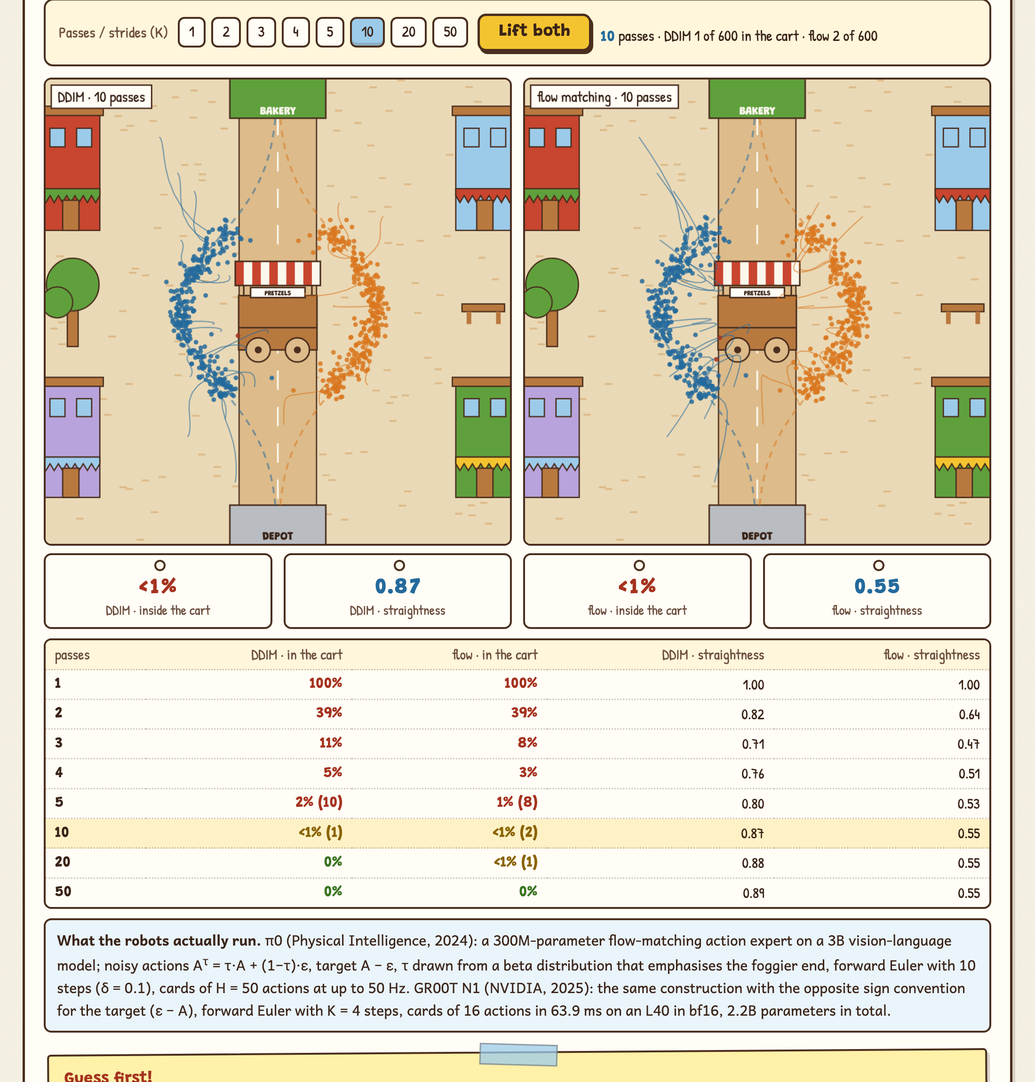
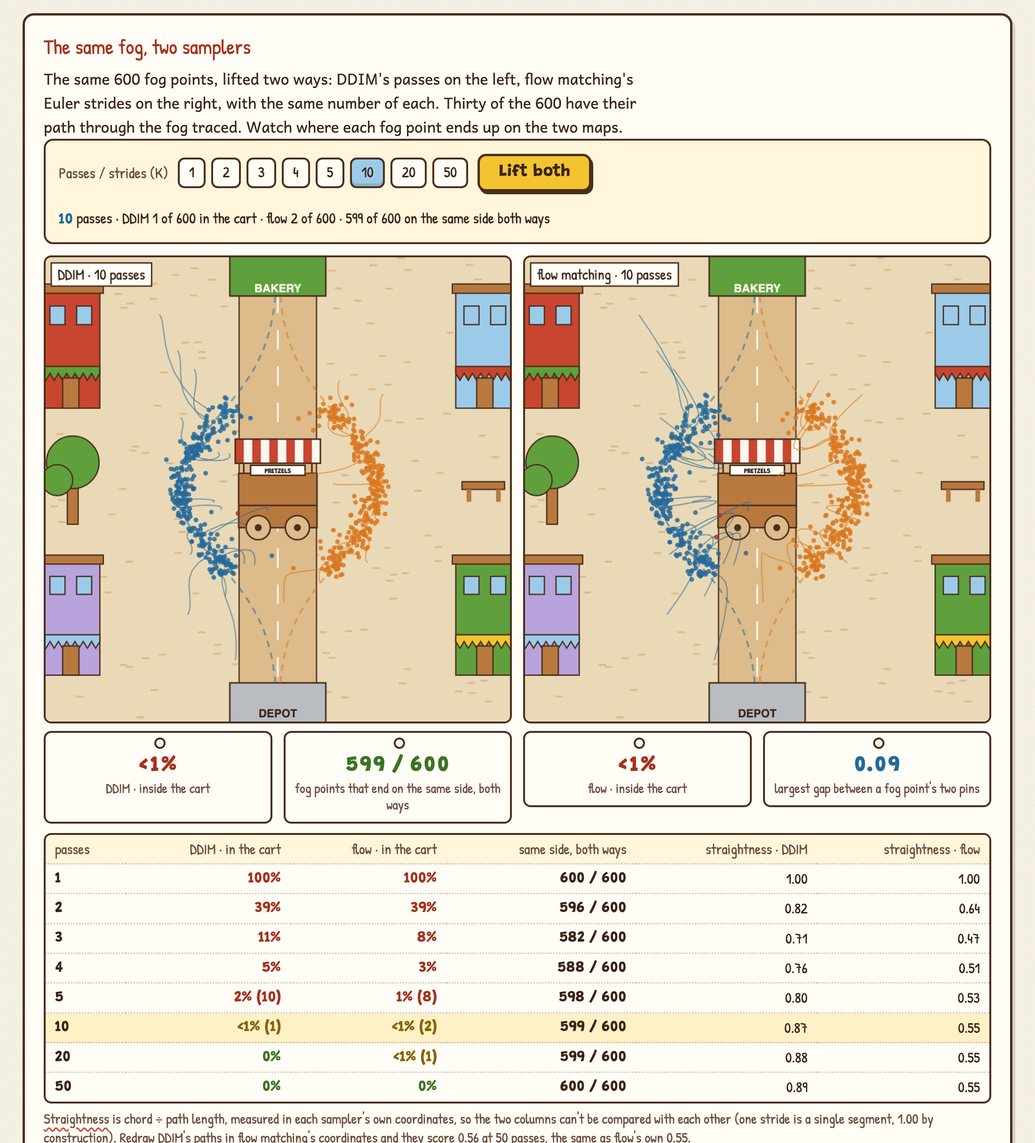
Step 7 review pass: the same path drawn two ways, not "DDIM is straighter"
The second adversarial review showed the step's headline was a coordinate
artifact: with the exact field, DDIM at η = 0 and flow matching's Euler
integrate the same path in different coordinates, so the same fog reaches
the same pin (599/600 at 10 strides, 600/600 at 50, gap 0.02) and DDIM's
trails redrawn in flow's coordinates score 0.56, not 0.87. The s7c answer
key, the say-it line, the README and ACCEPTANCE now say so, with a
same-side column and tiles in place of the comparative straightness claim.
GR00T N1's target is A − ε like π0's (its paper prints ε − A; its update
rule and released code don't). Also: the step 6 lede no longer promises
"fewer passes", "within a few pins" is now 15 vs 2 of 600, the courier
no longer "follows" the sampler's arrows, GR00T §2.1, a #s7 legacy hash
rewrites, DDIM's fog thins with its actual √(1−ᾱ), arrows drawn in ink,
and the README images are captured at exact sizes.

diff --git a/index.html b/index.html
@@ -13,7 +13,7 @@
 <link rel="preconnect" href="https://fonts.gstatic.com" crossorigin>
 <link href="https://fonts.googleapis.com/css2?family=Andika:wght@400;700&family=Grandstander:wght@700;800&family=Patrick+Hand&display=swap" rel="stylesheet">
 <link rel="stylesheet" href="css/styles.css">
-<script>/* Step links use "#/s3" so the hash never matches an element id and the browser never fragment-jumps. Rewrite the legacy form before the body parses. */(function(){var h=location.hash;if(/^#(s[0-6]|cap|ft)$/.test(h))history.replaceState(null,"","#/"+h.slice(1));})();</script>
+<script>/* Step links use "#/s3" so the hash never matches an element id and the browser never fragment-jumps. Rewrite the legacy form before the body parses. */(function(){var h=location.hash;if(/^#(s[0-7]|cap|ft)$/.test(h))history.replaceState(null,"","#/"+h.slice(1));})();</script>
 </head>
 <body>
 <!--
@@ -353,7 +353,7 @@ HONESTY: the schedules, the forward process, the denoiser (the exact Bayes poste
   <div class="card">
     <div class="scene" data-art="s6"></div>
     <h2>6 · Pin 16, drive 8, look again: the robot drives</h2>
-    <p class="lede">Everything so far, put on the road. The cartographer no longer draws one dot: she draws a <span class="g" data-g="chunk">card of 16 pins</span> (the paper's T<sub>p</sub> = 16), the courier drives the first 8 (<span class="g" data-g="horizon">T<sub>a</sub> = 8</span>), then the lookout sends a fresh report and she draws a new card. Predict a short horizon, execute the first part, re-plan: <span class="g" data-g="receding">receding-horizon control</span>, the model-predictive-control idea running on a diffusion sampler. Every card here is denoised from fresh fog with the passes you pick (DDIM, η = 0). Benchmarked across 15 tasks from 4 suites, the paper's policy beat the prior state of the art by 46.9% on average. The newer action heads in π0 and GR00T N1 swap diffusion for <span class="g" data-g="flow">flow matching</span>, a relative that needs fewer passes; the picture is the same.</p>
+    <p class="lede">Everything so far, put on the road. The cartographer no longer draws one dot: she draws a <span class="g" data-g="chunk">card of 16 pins</span> (the paper's T<sub>p</sub> = 16), the courier drives the first 8 (<span class="g" data-g="horizon">T<sub>a</sub> = 8</span>), then the lookout sends a fresh report and she draws a new card. Predict a short horizon, execute the first part, re-plan: <span class="g" data-g="receding">receding-horizon control</span>, the model-predictive-control idea running on a diffusion sampler. Every card here is denoised from fresh fog with the passes you pick: DDIM at η = 0, or Euler strides if you choose arrows, which step 7 explains. Benchmarked across 15 tasks from 4 suites, the paper's policy beat the prior state of the art by 46.9% on average. The newer action heads in π0 and GR00T N1 swap diffusion for <span class="g" data-g="flow">flow matching</span>, a relative with a straight-line target and a few Euler strides; step 7 shows it's the same picture.</p>
     <p class="covers">Covers <b>Diffusion Policy §3</b>: T<sub>o</sub> = 2, T<sub>p</sub> = 16, T<sub>a</sub> = 8, DDIM at 10 steps · <b>§4.3</b>: the trade-off in T<sub>a</sub> · model-predictive control's receding horizon</p>
   </div>
   <div class="card" data-shot>
@@ -419,12 +419,12 @@ HONESTY: the schedules, the forward process, the denoiser (the exact Bayes poste
   <div class="card">
     <div class="scene" data-art="s7"></div>
     <h2>7 · Arrows, not guesses: flow matching</h2>
-    <p class="lede">Diffusion asks the cartographer for a guess: what does the clean sheet look like? <span class="g" data-g="flow">Flow matching</span> asks her for an arrow: which way, and how fast, should this pin move to get there? The path is <em>defined</em> as a straight line from a fog point ε to a pin x₁, x<sub>t</sub> = (1 − t)·ε + t·x₁ for t from 0 to 1, and the network is trained to output that line's <span class="g" data-g="velocity">velocity</span>, x₁ − ε. Sampling is following the arrows: start in fog, take one <span class="g" data-g="euler">Euler</span> stride along the current arrow, ask again. The action experts of π0 and GR00T N1 work this way, so this is the version of the fork you'll meet in a 2025 robot. It isn't in the course, which is why it comes last.</p>
-    <p class="covers">Not in the course (notebook 02 mentions a different "velocity" objective in passing) · <b>Lipman et al., Flow Matching for Generative Modeling (2023)</b> · <b>π0 §IV</b> and <b>GR00T N1 §2.2</b>: the action experts</p>
+    <p class="lede">Diffusion asks the cartographer for a guess: what does the clean sheet look like? <span class="g" data-g="flow">Flow matching</span> asks her for an arrow: which way, and how fast, should this pin move to get there? The path is <em>defined</em> as a straight line from a fog point ε to a pin x₁, x<sub>t</sub> = (1 − t)·ε + t·x₁ for t from 0 to 1, and the network is trained to output that line's <span class="g" data-g="velocity">velocity</span>, x₁ − ε. Sampling is following the arrows: start in fog, take one <span class="g" data-g="euler">Euler</span> stride along the current arrow, ask again. The action experts of π0 and GR00T N1 work this way, so this is the version of the fork you'll meet in a 2025 robot. It isn't in the course, which is why it comes last. One honesty note up front: with a perfectly trained network the arrow is computed from the same guess step 2 taught, v = (x̂₁ − x) ÷ (1 − t), so it isn't a different kind of knowledge. It's a different target to train on and a different path to follow, which changes the recipe (no noise schedule to pick, uniform strides) more than it changes the answer.</p>
+    <p class="covers">Not in the course (notebook 02 mentions a different "velocity" objective in passing) · <b>Lipman et al., Flow Matching for Generative Modeling (2023)</b> · <b>π0 §IV</b> and <b>GR00T N1 §2.1</b>: the action experts</p>
   </div>
   <div class="card">
     <h3>The arrow field</h3>
-    <p class="lede">Every point on the map gets an arrow: the exact best straight-line velocity, averaged over every pin the point could still become. Slide t from pure fog toward the clean map and watch where the arrows point.</p>
+    <p class="lede">Every point on the map gets an arrow: the exact best straight-line velocity, averaged over every pin the point could still become. Slide t from pure fog toward the clean map and watch where the arrows point. Arrow length shows speed, capped for legibility; the chalk box has one dot's exact numbers.</p>
     <div class="pg">
       <div class="panel">
         <div class="sl"><div class="sl-h"><span>t: 0 is pure fog, 1 is the clean map</span><b id="s7tv">0.00</b></div><input type="range" id="s7t" min="0" max="0.95" step="0.01" value="0" aria-label="Flow time t"></div>
@@ -432,7 +432,7 @@ HONESTY: the schedules, the forward process, the denoiser (the exact Bayes poste
         <div class="callout co-r"><b>At t = 0 every arrow points at the same spot:</b> the average of every route, the cart. That's the smudge again, in arrow form. One Euler stride of length 1 lands exactly on it: the clerk, once more. The arrows only start to disagree, some left and some right, once the pins have moved and t has grown.</div>
       </div>
       <div><canvas id="s7f" class="sq" aria-label="The flow-matching velocity field over the square, with the 600 pins at time t"></canvas>
-      <div class="legend"><span><span class="dot" style="background:var(--left)"></span>arrow: the field</span><span><span class="dot" style="background:var(--right)"></span>a pin from a right drive, at x_t</span></div></div>
+      <div class="legend"><span><span class="dot" style="background:var(--line)"></span>arrow: the field</span><span><span class="dot" style="background:var(--left)"></span>a pin from a left drive, at x_t</span><span><span class="dot" style="background:var(--right)"></span>a pin from a right drive, at x_t</span></div></div>
     </div>
     <div class="predict" data-p="s7a">
       <div class="tag">Guess first!</div>
@@ -443,33 +443,35 @@ HONESTY: the schedules, the forward process, the denoiser (the exact Bayes poste
   </div>
   <div class="card" data-shot>
     <h3>The same fog, two samplers</h3>
-    <p class="lede">The same 600 fog points, lifted two ways: DDIM's passes on the left, flow matching's Euler strides on the right, with the same number of each. Thirty of the 600 have their path through the fog traced. <span class="g" data-g="straight">Straightness</span> is chord ÷ path length: 1 would be a straight line.</p>
+    <p class="lede">The same 600 fog points, lifted two ways: DDIM's passes on the left, flow matching's Euler strides on the right, with the same number of each. Thirty of the 600 have their path through the fog traced. Watch where each fog point ends up on the two maps.</p>
     <div class="panel">
       <div class="row"><span class="lbl" style="margin:0">Passes / strides (K)</span><div class="seg" id="s7k" style="margin:0"></div><button class="act" id="s7go">Lift both</button><span class="status" id="s7st"></span></div>
     </div>
     <div class="grid g2">
       <div><canvas id="s7d" class="sq" aria-label="DDIM: 600 pins lifted from fog, thirty traced"></canvas>
-        <div class="grid g2" style="margin-top:8px"><div class="stat"><div class="v bad" id="s7dc">–</div><div class="l">DDIM · inside the cart</div></div><div class="stat"><div class="v acc" id="s7ds">–</div><div class="l">DDIM · straightness</div></div></div></div>
+        <div class="grid g2" style="margin-top:8px"><div class="stat"><div class="v bad" id="s7dc">–</div><div class="l">DDIM · inside the cart</div></div><div class="stat"><div class="v good" id="s7same">–</div><div class="l">fog points that end on the same side, both ways</div></div></div></div>
       <div><canvas id="s7w" class="sq" aria-label="Flow matching: the same 600 pins, thirty traced"></canvas>
-        <div class="grid g2" style="margin-top:8px"><div class="stat"><div class="v bad" id="s7wc">–</div><div class="l">flow · inside the cart</div></div><div class="stat"><div class="v acc" id="s7ws">–</div><div class="l">flow · straightness</div></div></div></div>
+        <div class="grid g2" style="margin-top:8px"><div class="stat"><div class="v bad" id="s7wc">–</div><div class="l">flow · inside the cart</div></div><div class="stat"><div class="v acc" id="s7gap">–</div><div class="l">largest gap between a fog point's two pins</div></div></div></div>
     </div>
     <div class="tablewrap"><table class="ladder" id="s7lad"></table></div>
-    <div class="callout co-i"><b>What the robots actually run.</b> π0 (Physical Intelligence, 2024): a 300M-parameter flow-matching action expert on a 3B vision-language model; noisy actions A<sup>τ</sup> = τ·A + (1−τ)·ε, target A − ε, τ drawn from a beta distribution that emphasises the foggier end, forward Euler with 10 steps (δ = 0.1), cards of H = 50 actions at up to 50 Hz. GR00T N1 (NVIDIA, 2025): the same construction with the opposite sign convention for the target (ε − A), forward Euler with K = 4 steps, cards of 16 actions in 63.9 ms on an L40 in bf16, 2.2B parameters in total.</div>
+    <div class="chartcap"><span class="g" data-g="straight">Straightness</span> is chord ÷ path length, measured in each sampler's own coordinates, so the two columns can't be compared with each other (one stride is a single segment, 1.00 by construction). Redraw DDIM's paths in flow matching's coordinates and they score 0.56 at 50 passes, the same as flow's own 0.55.</div>
+    <div class="callout co-g"><b>The same path, drawn two ways.</b> With the exact field, DDIM at η = 0 and flow matching's Euler strides integrate the same continuous path in different coordinates (x<sub>flow</sub> = x<sub>DDIM</sub> ÷ (√ᾱ + √(1−ᾱ))), so the same fog point reaches the same pin: 599 of 600 on the same side at 10 strides, 600 of 600 at 50, with the two pins within 0.02 of each other. What differs is where each sampler places its strides, which is why the few-stride rungs of the ladder differ by a few pins. The straight line is a promise about each training pair, one fog point to one pin; the learned field, for either sampler, is the average of those lines, and at a fork the average bends. Rectified flow's "reflow" (re-pair fog points with the pins they actually reach and train again) is what straightens it; this lab draws the first pass only.</div>
+    <div class="callout co-i"><b>What the robots actually run.</b> π0 (Physical Intelligence, 2024): a 300M-parameter flow-matching action expert on a 3B vision-language model; noisy actions A<sup>τ</sup> = τ·A + (1−τ)·ε, target A − ε, τ drawn from a beta distribution that emphasises the foggier end, forward Euler with 10 steps (δ = 0.1), cards of H = 50 actions at up to 50 Hz. GR00T N1 (NVIDIA, 2025): the same construction and the same target (its paper prints ε − A, but its update rule and its released code use A − ε), forward Euler with K = 4 steps, cards of 16 actions in 63.9 ms on an L40 in bf16, 2.2B parameters in total.</div>
     <div class="predict" data-p="s7b">
       <div class="tag">Guess first!</div>
       <div class="q">Three passes from the same fog. Which sampler leaves fewer pins in the cart?</div>
       <div class="opts"><button data-a="0">DDIM</button><button data-a="1" data-right>Flow matching, slightly</button><button data-a="2">Exactly the same</button></div>
-      <div class="why">Flow matching, slightly: 8% against DDIM's 11% (48 vs 66 of 600). At five it's 1% vs 2%; by ten both are at 1 or 2 of 600. In this toy they are close cousins: both start at the average and commit in passes. GR00T N1 runs 4 Euler steps and π0 runs 10; the ladder says 4 is already within a few pins of 10 here.</div>
+      <div class="why">Flow matching, slightly: 8% against DDIM's 11% (48 vs 66 of 600). At four it's 3% vs 5% (15 vs 28), at five 1% vs 2%; by ten both are at 1 or 2 of 600. They are the same path drawn two ways, and the small gaps come from where each sampler places its strides. GR00T N1 runs 4 Euler steps (15 of 600 here) and π0 runs 10 (2 of 600): close, not equal.</div>
     </div>
     <div class="predict" data-p="s7c">
       <div class="tag">Guess first!</div>
-      <div class="q">Flow matching is sold on straight paths. Measured as chord ÷ path length at 10 passes, whose paths are straighter here?</div>
-      <div class="opts"><button data-a="0">Flow matching's</button><button data-a="1" data-right>DDIM's</button><button data-a="2">Identical</button></div>
-      <div class="why">DDIM's: 0.87 against 0.55. The straight line is a promise about each training pair, one fog point to one pin. The field the network learns is the average of those lines, and at a fork the average of a line going left and a line going right bends: at t = 0 every arrow points at the cart, so a pin that ends up left has to swing away from its first heading, and the trace shows the bend. Rectified flow's answer is to re-pair fog points with the pins they actually reach and train again ("reflow"), which straightens the field; this lab draws the first pass only.</div>
+      <div class="q">Lift the same 600 fog points with 50 DDIM passes and with 50 Euler strides. How many end on the same side of the cart both ways?</div>
+      <div class="opts"><button data-a="0">About half: the samplers disagree</button><button data-a="1" data-right>All 600</button><button data-a="2">Only the ones that started far from the cart</button></div>
+      <div class="why">All 600, with the two pins within 0.02 of each other. With the exact field they are one path in two coordinate systems, so where a fog point ends up is fixed by the fog point, not by the sampler. The "straight path" flow matching is sold on is a promise about each training pair; the learned field averages those lines and bends at the fork, for both samplers. That is why the two straightness columns in the ladder only mean something inside their own coordinates.</div>
     </div>
     <div class="say" data-say="s7">
       <div class="tag">Say it out loud</div>
-      <div class="line">Flow matching trains an arrow, the straight-line velocity from fog to pin, and samples by following it in a few Euler strides. Same fork, same average at t = 0, same commitment in passes. The straightness is per pair; the fork bends the field.</div>
+      <div class="line">Flow matching trains an arrow, the straight-line velocity from fog to pin, and follows it in a few Euler strides. Same fork, same average at t = 0, and with the exact field the same path as DDIM in different coordinates: the same fog reaches the same pin. The straight line is per pair; the learned field bends at the fork, for both.</div>
     </div>
   </div>
 </section>

diff --git a/js/app.js b/js/app.js
@@ -245,7 +245,7 @@
       if (st.avg) { ctx.strokeStyle = COL.cart; ctx.lineWidth = 3; ctx.setLineDash([10, 6]); ctx.beginPath(); ctx.moveTo(X(st.avg[0]), Y(S.START_Y)); ctx.lineTo(X(st.avg[0]), Y(S.GOAL_Y)); ctx.stroke(); ctx.setLineDash([]); }
       fogLayer(st.fog || 0);
       if (st.field) {
-        ctx.strokeStyle = COL.left; ctx.fillStyle = COL.left; ctx.lineWidth = Math.max(1, W / 400); ctx.globalAlpha = 0.85;
+        ctx.strokeStyle = COL.line; ctx.fillStyle = COL.line; ctx.lineWidth = Math.max(1, W / 400); ctx.globalAlpha = 0.75;
         st.field.forEach(function (a) {
           var m = Math.sqrt(a.vx * a.vx + a.vy * a.vy); if (m < 1e-9) return;
           var len = Math.min(0.34, m * 0.11), ux = a.vx / m, uy = a.vy / m, x1 = a.x + ux * len, y1 = a.y + uy * len;
@@ -404,7 +404,8 @@
       var pts = chains.map(function (c) { var a = c.trail[pass], b2 = c.trail[Math.min(pass + 1, c.trail.length - 1)], x = a[0] + (b2[0] - a[0]) * u, y = a[1] + (b2[1] - a[1]) * u; return { x: x, y: y, col: done ? cl(c) : COL.fog }; });
       var trails = $("s3trail").checked ? chains.slice(0, 30).map(function (c) { var tp = c.trail.slice(0, pass + 1).map(function (p) { return [p[0], p[1]]; }); var a = c.trail[pass], b2 = c.trail[Math.min(pass + 1, c.trail.length - 1)]; tp.push([a[0] + (b2[0] - a[0]) * u, a[1] + (b2[1] - a[1]) * u]); return { pts: tp, col: done ? cl(c) : COL.fog }; }) : null;
       var guess = $("s3guess").checked && !done ? chains.map(function (c) { return c.guesses[Math.min(pass, c.guesses.length - 1)]; }) : null;
-      view.render({ fx: 0, routes: done, pts: pts, trails: trails, guess: guess, fog: done ? 0 : 1 - (pass + u) / run.K, caption: done ? run.K + " pass" + (run.K > 1 ? "es" : "") + " · " + (run.eta ? "DDPM-like η = 1" : "DDIM η = 0") + " · " + run.sch : "pass " + (pass + 1) + " of " + run.K });
+      var ts = FR.timesteps(run.K), f0 = Math.sqrt(1 - FR.abAt(SCH[run.sch], ts[pass])), f1 = pass + 1 < run.K ? Math.sqrt(1 - FR.abAt(SCH[run.sch], ts[pass + 1])) : 0;   // the fog's actual volume at this pass
+      view.render({ fx: 0, routes: done, pts: pts, trails: trails, guess: guess, fog: done ? 0 : f0 + (f1 - f0) * u, caption: done ? run.K + " pass" + (run.K > 1 ? "es" : "") + " · " + (run.eta ? "DDPM-like η = 1" : "DDIM η = 0") + " · " + run.sch : "pass " + (pass + 1) + " of " + run.K });
     }
     $("s3go").onclick = function () {
       if (running) running.stop();
@@ -524,7 +525,7 @@
       $("s6fa").textContent = (f.n - f.hits) + " / 20"; $("s6fh").textContent = f.hits + " / 20"; $("s6ff").textContent = fmt(f.flips, 2); $("s6ftm").textContent = fmt(f.time, 1);
       touch("s6");
     }
-    seg($("s6pol"), [{ v: "diffusion", label: "the cartographer (diffusion, DDIM)" }, { v: "flow", label: "the cartographer (arrows, flow matching)" }, { v: "averager", label: "the clerk (average)" }], o.policy, function (v) { o.policy = v; });
+    seg($("s6pol"), [{ v: "diffusion", label: "the cartographer (diffusion, DDIM)" }, { v: "flow", label: "the cartographer (arrows, flow matching · step 7)" }, { v: "averager", label: "the clerk (average)" }], o.policy, function (v) { o.policy = v; });
     seg($("s6k"), [1, 2, 5, 10, 50].map(function (k) { return { v: k, label: String(k) }; }), o.K, function (v) { o.K = +v; });
     seg($("s6ta"), [1, 4, 8, 16].map(function (k) { return { v: k, label: String(k) }; }), o.Ta, function (v) { o.Ta = +v; });
     $("s6look").addEventListener("change", function () { o.lookout = this.checked; });
@@ -539,7 +540,7 @@
   /* ================= STEP 7: arrows, not guesses (flow matching) ================= */
   var FLOW_K = [1, 2, 3, 4, 5, 10, 20, 50], flowLadder = null;
   function initS7() {
-    var vf = SquareView("s7f"), vd = SquareView("s7d"), vw = SquareView("s7w"), t = 0, K = 4, running = null, last = null, comps = S.map2d(0);
+    var vf = SquareView("s7f"), vd = SquareView("s7d"), vw = SquareView("s7w"), t = 0, K = 10, running = null, last = null, comps = S.map2d(0);
     function field() {
       var t2 = Math.min(t, 0.95), arrows = [], step = 0.4;
       for (var gx = -2.6; gx <= 2.61; gx += step) for (var gy = -2.6; gy <= 2.61; gy += step) { var f = FR.flowVelocity([gx, gy], t2, comps, S.BASIS2); arrows.push({ x: gx, y: gy, vx: f.v[0], vy: f.v[1] }); }
@@ -551,28 +552,41 @@
     }
     $("s7t").addEventListener("input", function () { t = +this.value; field(); touch("s7"); });
     function idle() { vd.render({ fx: 0, routes: true, caption: "DDIM · press Lift both" }); vw.render({ fx: 0, routes: true, caption: "flow matching · press Lift both" }); }
+    // the same fog point, lifted both ways: does it end on the same side, and how far apart are its two pins?
+    function agree(run) {
+      var same = 0, gap = 0;
+      run.f.chains.forEach(function (c, i) { var d = run.d.chains[i]; if (S.classify(c.x[0], c.x[1], 0, run.f.comps) === S.classify(d.x[0], d.x[1], 0, run.d.comps)) same++; gap = Math.max(gap, Math.hypot(c.x[0] - d.x[0], c.x[1] - d.x[1])); });
+      return { same: same, gap: gap };
+    }
     function ladder() {
-      if (!flowLadder) flowLadder = FLOW_K.map(function (k) { return { K: k, d: S.run2d({ K: k, eta: 0, sch: SCH.cosine, fx: 0 }), f: S.run2d({ K: k, flow: true, fx: 0 }) }; });
-      $("s7lad").innerHTML = "<tr><th>passes</th><th>DDIM · in the cart</th><th>flow · in the cart</th><th>DDIM · straightness</th><th>flow · straightness</th></tr>" + flowLadder.map(function (r) {
-        return '<tr class="' + (r.K === K ? "now" : "") + '"><td class="n">' + r.K + '</td><td class="n" style="color:' + cartCol(r.d.tally.cart) + '">' + pct(r.d.tally.cart / 600) + (r.d.tally.cart && r.d.tally.cart < 12 ? " (" + r.d.tally.cart + ")" : "") + '</td><td class="n" style="color:' + cartCol(r.f.tally.cart) + '">' + pct(r.f.tally.cart / 600) + (r.f.tally.cart && r.f.tally.cart < 12 ? " (" + r.f.tally.cart + ")" : "") + "</td><td>" + r.d.straightness.toFixed(2) + "</td><td>" + r.f.straightness.toFixed(2) + "</td></tr>";
+      if (!flowLadder) flowLadder = FLOW_K.map(function (k) { var r = { K: k, d: S.run2d({ K: k, eta: 0, sch: SCH.cosine, fx: 0 }), f: S.run2d({ K: k, flow: true, fx: 0 }) }; r.a = agree(r); return r; });
+      $("s7lad").innerHTML = "<tr><th>passes</th><th>DDIM · in the cart</th><th>flow · in the cart</th><th>same side, both ways</th><th>straightness · DDIM</th><th>straightness · flow</th></tr>" + flowLadder.map(function (r) {
+        return '<tr class="' + (r.K === K ? "now" : "") + '"><td class="n">' + r.K + '</td><td class="n" style="color:' + cartCol(r.d.tally.cart) + '">' + pct(r.d.tally.cart / 600) + (r.d.tally.cart && r.d.tally.cart < 12 ? " (" + r.d.tally.cart + ")" : "") + '</td><td class="n" style="color:' + cartCol(r.f.tally.cart) + '">' + pct(r.f.tally.cart / 600) + (r.f.tally.cart && r.f.tally.cart < 12 ? " (" + r.f.tally.cart + ")" : "") + '</td><td class="n">' + r.a.same + " / 600</td><td>" + r.d.straightness.toFixed(2) + "</td><td>" + r.f.straightness.toFixed(2) + "</td></tr>";
       }).join("");
+    }
+    // DDIM's fog thins with its actual noise weight √(1−ᾱ) at the pass's timestep; flow's thins with 1 − t exactly.
+    function fogAt(run, pass, u, flow) {
+      if (flow) return 1 - (pass + u) / run.K;
+      var ts = FR.timesteps(run.K), a0 = Math.sqrt(1 - FR.abAt(SCH.cosine, ts[pass])), a1 = pass + 1 < run.K ? Math.sqrt(1 - FR.abAt(SCH.cosine, ts[pass + 1])) : 0;
+      return a0 + (a1 - a0) * u;
     }
     function frameOne(view, run, pass, u, done, name) {
       var chains = run.chains, cl = function (c) { return classCol(S.classify(c.x[0], c.x[1], 0, run.comps)); };
       var pts = chains.map(function (c) { var a = c.trail[pass], b2 = c.trail[Math.min(pass + 1, c.trail.length - 1)]; return { x: a[0] + (b2[0] - a[0]) * u, y: a[1] + (b2[1] - a[1]) * u, col: done ? cl(c) : COL.fog }; });
       var trails = chains.slice(0, 30).map(function (c) { var tp = c.trail.slice(0, pass + 1).map(function (p) { return [p[0], p[1]]; }); var a = c.trail[pass], b2 = c.trail[Math.min(pass + 1, c.trail.length - 1)]; tp.push([a[0] + (b2[0] - a[0]) * u, a[1] + (b2[1] - a[1]) * u]); return { pts: tp, col: done ? cl(c) : COL.fog }; });
-      view.render({ fx: 0, routes: done, pts: pts, trails: trails, fog: done ? 0 : 1 - (pass + u) / run.K, caption: name + " · " + (done ? run.K + " pass" + (run.K > 1 ? "es" : "") : "pass " + (pass + 1) + " of " + run.K) });
+      view.render({ fx: 0, routes: done, pts: pts, trails: trails, fog: done ? 0 : fogAt(run, pass, u, name !== "DDIM"), caption: name + " · " + (done ? run.K + " pass" + (run.K > 1 ? "es" : "") : "pass " + (pass + 1) + " of " + run.K) });
     }
     function stats(run) {
+      var a = agree(run);
       $("s7dc").textContent = pct(run.d.tally.cart / 600); $("s7wc").textContent = pct(run.f.tally.cart / 600);
-      $("s7ds").textContent = run.d.straightness.toFixed(2); $("s7ws").textContent = run.f.straightness.toFixed(2);
-      $("s7st").innerHTML = "<b>" + run.K + "</b> pass" + (run.K > 1 ? "es" : "") + " · DDIM " + run.d.tally.cart + " of 600 in the cart · flow " + run.f.tally.cart + " of 600";
+      $("s7same").textContent = a.same + " / 600"; $("s7gap").textContent = a.gap.toFixed(2);
+      $("s7st").innerHTML = "<b>" + run.K + "</b> pass" + (run.K > 1 ? "es" : "") + " · DDIM " + run.d.tally.cart + " of 600 in the cart · flow " + run.f.tally.cart + " of 600 · " + a.same + " of 600 on the same side both ways";
     }
     $("s7go").onclick = function () {
       if (running) running.stop();
       var run = { K: K, d: S.run2d({ K: K, eta: 0, sch: SCH.cosine, fx: 0 }), f: S.run2d({ K: K, flow: true, fx: 0 }) }, pass = 0, per = Math.max(160, Math.min(800, 3000 / K));
       run.d.K = K; run.f.K = K; last = run; $("s7go").disabled = true;
-      $("s7dc").textContent = "–"; $("s7wc").textContent = "–"; $("s7ds").textContent = "–"; $("s7ws").textContent = "–";
+      $("s7dc").textContent = "–"; $("s7wc").textContent = "–"; $("s7same").textContent = "–"; $("s7gap").textContent = "–";
       function next() {
         $("s7st").innerHTML = "pass <b>" + (pass + 1) + " / " + run.K + "</b>";
         running = anim(per, function (u) { frameOne(vd, run.d, pass, ease(u), false, "DDIM"); frameOne(vw, run.f, pass, ease(u), false, "flow matching"); }, function () {
@@ -701,7 +715,9 @@
       var run = (/[?&]run=([a-z]+)/.exec(location.search) || [])[1];
       if (run === "lift" && start === "s3") $("s3go").click();
       if (run === "drive" && start === "s6") { $("s6push").checked = true; window.FRDrive.set("push", true); $("s6go").click(); }
-      if (run === "both" && start === "s7") { var b10 = document.querySelector('#s7k button[data-v="10"]'); if (b10) b10.click(); $("s7go").click(); }
+      if (run === "both" && start === "s7") $("s7go").click();
+      // Screenshot mode only: settle at the top once fonts, clicks and layout are done (headless Chrome otherwise drifts).
+      if (document.body.classList.contains("shot")) setTimeout(function () { window.scrollTo(0, 0); }, 700);
     }, 0);
   });
   window.addEventListener("resize", function () { redrawAll(); });

diff --git a/js/glossary.js b/js/glossary.js
@@ -25,8 +25,8 @@ window.FR_GLOSSARY = {
   obs: ["Observation (Oₜ)", "What the robot senses right now: the last two camera frames (each encoded by a ResNet-18) plus its end-effector pose. The denoiser is conditioned on it.", "The lookout's report."],
   film: ["FiLM", "Feature-wise Linear Modulation: the observation embedding produces a scale and a shift for every channel of the denoiser's features. How \"what I see\" steers \"what I draw\". Diffusion Policy's CNN variant conditions this way; its transformer variant feeds the observation in as tokens.", "The report is on the cartographer's desk while she draws every pin."],
   latency: ["Inference latency", "How long the policy takes to produce its next action chunk. Diffusion Policy trains at 100 steps and samples with DDIM in 10, about 0.1 s on an RTX 3080; sampling all 100 would take about 1 s, and all 1,000 of this course's schedule about 10 s.", "How long the courier waits for its card."],
-  flow: ["Flow matching", "A relative of diffusion (Lipman et al., 2023). The path from noise to data is defined as a straight line, x_t = (1−t)·ε + t·x₁, and the network is trained to output its velocity, x₁ − ε. Sampling follows the learned field with a few Euler steps. The action heads of π0 (10 steps) and GR00T N1 (4 steps) use it.", "The cartographer draws arrows instead of guesses, and the courier follows them."],
+  flow: ["Flow matching", "A relative of diffusion (Lipman et al., 2023). The path from noise to data is defined as a straight line, x_t = (1−t)·ε + t·x₁, and the network is trained to output its velocity, x₁ − ε. Sampling follows the learned field with a few Euler steps. The action heads of π0 (10 steps) and GR00T N1 (4 steps) use it. With the exact field it follows the same path as DDIM in different coordinates.", "The cartographer draws arrows instead of guesses, and the pins follow them out of the fog while a card is drawn."],
   velocity: ["Velocity field v(x, t)", "What a flow-matching network outputs: for a point x at time t, which way and how fast to move. The exact field is the average, over everything the point could become, of the straight-line velocity to it.", "The arrow on each pin."],
-  euler: ["Forward Euler", "The simplest way to follow a velocity field: move by v × Δt, ask again. K steps of size 1/K. π0 uses 10, GR00T N1 uses 4.", "Follow the arrow for one stride, then look at the new arrow."],
+  euler: ["Forward Euler", "The simplest way to follow a velocity field: move by v × Δt, ask again. K steps of size 1/K. π0 uses 10, GR00T N1 uses 4.", "The pin moves along its arrow for one stride, then gets a new arrow. This happens inside the drawing of one card, not on the road."],
   straight: ["Straightness (chord ÷ length)", "How straight a sampler's path is: the straight-line distance from start to finish divided by the distance actually travelled. 1 means a straight line.", "How much the pin wandered on its way out of the fog."]
 };

diff --git a/tests/check.js b/tests/check.js
@@ -58,6 +58,19 @@ var v0 = FR.flowVelocity([1.2, -0.7], 0, comps, S.BASIS2);
 console.log("v(x, t=0) + x = mean?", v0.v.map(function (v, i) { return f(v + [1.2, -0.7][i], 4); }), "· weights at t=0 uniform:", f(Math.max.apply(null, v0.w) - Math.min.apply(null, v0.w), 6));
 var one = FR.flowSample({ K: 1, comps: comps, basis: S.BASIS2, D: 2, n: 3, seed: 5 });
 console.log("K=1 lands on the mean:", one.map(function (c) { return c.x.map(function (v) { return f(v, 3); }).join(","); }).join(" | "));
+// same fog, same pin: with the exact field, DDIM (η = 0) and flow matching integrate the same ODE in different coordinates
+[10, 50].forEach(function (K) {
+  var fl = S.run2d({ K: K, flow: true, fx: 0 }), dd = S.run2d({ K: K, eta: 0, sch: cos, fx: 0 }), same = 0, gap = 0, stD = 0;
+  var ts = FR.timesteps(K);
+  fl.chains.forEach(function (c, i) {
+    var d = dd.chains[i], cl = S.classify(c.x[0], c.x[1], 0, fl.comps), cd = S.classify(d.x[0], d.x[1], 0, dd.comps);
+    if (cl === cd) same++; gap = Math.max(gap, Math.hypot(c.x[0] - d.x[0], c.x[1] - d.x[1]));
+    // DDIM's trail redrawn in flow's coordinates: x_flow = x_DDIM / (√ᾱ + √(1−ᾱ))
+    var tr = d.trail.map(function (p, s) { var ab = s < ts.length ? FR.abAt(cos, ts[s]) : 1, den = Math.sqrt(ab) + Math.sqrt(1 - ab); return [p[0] / den, p[1] / den]; });
+    stD += FR.straightness(tr);
+  });
+  console.log(" K=" + K + ": same side " + same + "/600 · max gap between the two pins " + f(gap, 3) + " · DDIM's trails redrawn in flow's coordinates: straightness " + f(stD / 600, 3) + " (flow's own " + f(fl.straightness, 3) + ", DDIM's own " + f(dd.straightness, 3) + ")");
+});
 console.log("drive with flow cards:");
 var fbase = { policy: "flow", K: 10, Ta: 8, lookout: true, msPerPass: 10, sch: cos, cartAt: S.still(0), seed: 3 };
 [1, 2, 5, 10].forEach(function (K) { var r = S.fleet(Object.assign({}, fbase, { K: K }), 20); console.log(" flow K=" + K + ": hits " + r.hits + "/20 · flips " + f(r.flips, 2) + " · time " + f(r.time, 1) + " s"); });

diff --git a/js/art.js b/js/art.js
@@ -366,7 +366,7 @@
     s += label(40, 224, "at t = 0 every arrow points at the cart:", null, { size: 15, fill: BAD });
     s += label(40, 248, "the average, again", null, { size: 15, fill: BAD });
     s += label(300, 340, "later, the arrows disagree: some left, some right, bending around the cart", null, { size: 15 });
-    s += label(300, 364, "the courier follows its arrow for one stride, then looks again (Euler)", null, { size: 15 });
+    s += label(300, 364, "each stride: move the pin along its arrow, then ask for a new arrow (Euler)", null, { size: 15 });
     return wrap("s7", "The cartographer at her table with two arrow sheets. On the first, marked t equals 0, every small arrow on the map points at the cart in the centre. On the second, marked t equals 0.7, the arrows curve left and right around the cart. A poster on the wall reads arrows in use: pi zero, 10 Euler steps, cards of 50; GR00T N1, 4 steps, cards of 16. The courier waits at the right.", s);
   };
   scenes.cap = function () {

diff --git a/README.md b/README.md
@@ -18,10 +18,10 @@ A delivery robot learns from a hundred human drives around a pretzel cart. Half 
 | **3 · Fog Lifts in Passes** | Denoise 600 pins from 600 fogs in 1, 2, 3, 5, 10 or 50 passes; DDIM η = 0 vs DDPM-like η = 1; the sampler's traces and per-pass guesses; a live ladder of passes against dents | 1 pass: 100% in the cart. 5: 2%. 10: 1 of 600. Each guess starts from a map that already leans, so the pin commits to a side. With the linear schedule two passes are 94% in the cart |
 | **4 · The Stopwatch** | Milliseconds per pass, pins per card, and the ladder with a waiting-share column | A card of 8 pins is 0.8 s of driving; 10 DDIM passes at 10 ms are 0.1 s, an eighth of it, and already enough. Walking the course's 1,000-step schedule would take 10 s |
 | **5 · The Lookout** | Park the cart anywhere; draw 600 pins with the report and 600 blindfolded, side by side | Conditioning: with the observation the pins go around today's cart; without it, around where it used to be, and 28% land in it at +1.0. FiLM vs Unit 2's channel concatenation |
-| **6 · Pin 16, Drive 8** | The courier drives: cartographer or clerk, 1–50 passes, 1–16 pins per card, lookout on or off, a vendor who pushes the cart mid-drive; 20-drive fleets with dents, side flips and time | Receding-horizon control on a diffusion sampler. Re-plan every pin and it dithers (1.9 flips a drive); drive 8 and it commits; drive all 16 and it can't react; blindfold it and half the drives dent |
-| **7 · Arrows** | The flow-matching velocity field over the square at any t; the same 600 fog points lifted by DDIM and by flow matching side by side, with thirty paths traced and a straightness measure; a ladder for both | Flow matching trains an arrow (the straight-line velocity from fog to pin) instead of a guess. At t = 0 every arrow points at the cart, so one stride is the clerk again. Few-stride performance matches DDIM's here (8% vs 11% in the cart at three), and the "straight path" is per training pair: the learned field bends at the fork (0.55 vs 0.87). What π0 (10 Euler steps) and GR00T N1 (4 steps) actually run |
+| **6 · Pin 16, Drive 8** | The courier drives: the cartographer (DDIM, or flow-matching arrows) or the clerk, 1–50 passes, 1–16 pins per card, lookout on or off, a vendor who pushes the cart mid-drive; 20-drive fleets with dents, side flips and time | Receding-horizon control on a diffusion sampler. Re-plan every pin and it dithers (1.9 flips a drive); drive 8 and it commits; drive all 16 and it can't react; blindfold it and half the drives dent |
+| **7 · Arrows** | The flow-matching velocity field over the square at any t; the same 600 fog points lifted by DDIM and by flow matching side by side, with thirty paths traced; a ladder for both with a same-side count | Flow matching trains an arrow (the straight-line velocity from fog to pin) instead of a guess. At t = 0 every arrow points at the cart, so one stride is the clerk again. With the exact field it is the same path as DDIM in different coordinates: the same fog reaches the same pin (600 of 600 at 50 strides), and the few-stride ladders differ by a few pins (8% vs 11% at three). The "straight path" is per training pair; the learned field bends at the fork, for both. What π0 (10 Euler steps) and GR00T N1 (4 steps) actually run |
 | **★ Review Board** | Three incident reports: the straight-liner, the ditherer, the slowpoke. Run the rule, pick a fix, re-drive 20 times, name the cause | The tempting wrong fixes (more data, more passes, a shorter card, a faster motor) fail for the reason the step taught |
-| **✓ Field Test** | Eight questions answered by operating the widgets | Proof it stuck |
+| **✓ Field Test** | Nine questions answered by operating the widgets | Proof it stuck |
 
 Each step has predict-then-reveal questions and a "say it out loud" line that unlocks once you've played. Every term has a tooltip with its plain meaning and its square equivalent. Progress is saved in your browser.
 
@@ -41,14 +41,14 @@ The interactive diffusion explainers are about images or about the geometry, and
 | Passes against a latency budget | ✓ | — | — | — |
 | Conditioning on an observation, with a blindfolded baseline | ✓ | ✓ same noise, different observation | — | text prompt |
 | Receding-horizon execution with re-planning and a moving obstacle | ✓ | ✓ 16 predict, 4 execute | — | — |
-| Guided lessons with predict-then-check, a capstone and a graded test | ✓ (16 predictions, 3 cases, 8 questions) | a 6-step guided cycle | — | — |
+| Guided lessons with predict-then-check, a capstone and a graded test | ✓ (19 predictions, 3 cases, 9 questions) | a 6-step guided cycle | — | — |
 | Tied to the Hugging Face course notebooks | ✓ | — | — | — |
 
 Cart-Pole Diffusion is the one to open next if you want to see a *learned* denoiser drive a plant in real time; Diffusion Explorer is the one for watching a real model train on a distribution you drew.
 
 ![Six hundred pins lifted from fog in ten passes, thirty of them with the sampler's path traced, with the ladder of passes against dents](docs/lift.png)
 
-![The same fog lifted by DDIM and by flow matching, side by side, with the ladder of passes against dents and straightness for both](docs/arrows.png)
+![The same fog lifted by DDIM and by flow matching, side by side, with the ladder of passes against dents and the count of fog points that end on the same side both ways](docs/arrows.png)
 
 ## Run it
 

diff --git a/ACCEPTANCE.md b/ACCEPTANCE.md
@@ -49,9 +49,10 @@ Numeric checks are asserted against `window.FR` (the exact math) and `window.FRS
 |---|---|---|---|
 | F1 | Null cases: at t = 0 the velocity points at the mixture mean and the posterior weights are uniform; one Euler stride of length 1 lands on the mean | v(x, 0) + x = mean to 10⁻⁴ · weight spread 0 · K = 1 → (0.000, 0.000) for three seeds | ✓ |
 | F2 | Share of 600 pins in the cart, flow vs DDIM (η = 0, cosine), same seed 11 | K = 1 100% / 100% · 2 39% (232) / 39% (236) · 3 **8% (48) / 11% (66)** · 4 3% / 5% · 5 1% (8) / 2% (10) · 10 <1% (2) / <1% (1) · 20 <1% (1) / 0% · 50 0% / 0% | ✓ |
-| F3 | Straightness (chord ÷ path length), flow vs DDIM | K = 1 1.00 / 1.00 · 2 0.64 / 0.82 · 3 0.47 / 0.71 · 5 0.53 / 0.80 · **10 0.55 / 0.87** · 50 0.55 / 0.89. The marginal flow field bends at the fork; DDIM's paths are straighter here | ✓ |
+| F3 | Straightness (chord ÷ path length) in each sampler's own coordinates, flow vs DDIM | K = 1 1.00 / 1.00 (one segment, by construction) · 2 0.64 / 0.82 · 3 0.47 / 0.71 · 5 0.53 / 0.80 · 10 0.55 / 0.87 · 50 0.55 / 0.89. Not comparable across columns: see F6 | ✓ |
 | F4 | The drive with flow-matching cards (Euler, lookout on, cart still, 20 drives) | K = 1: 20 of 20 dent (one stride is the clerk) · K = 2: 1 of 20 · K = 5: 0 dents, 0.05 flips · K = 10: 0 dents, 0.05 flips, 3.6 s | ✓ |
-| F5 | Paper facts quoted on the page, read from the papers' full text on 2026-09-26 | π0: A^τ = τA + (1−τ)ε, target A − ε, τ ~ beta emphasising noisier timesteps, forward Euler with 10 steps (δ = 0.1), H = 50, up to 50 Hz, 300M-parameter expert on a 3.3B total · GR00T N1: A^τ = τA + (1−τ)ε, target ε − A, τ ~ Beta(1.5, 1) scaled, forward Euler, K = 4, H = 16, 63.9 ms on an L40 in bf16, 2.2B parameters | ✓ |
+| F5 | Paper facts quoted on the page, read from the papers' full text on 2026-09-26 | π0: A^τ = τA + (1−τ)ε, target A − ε, τ ~ beta emphasising noisier timesteps, forward Euler with 10 steps (δ = 0.1), H = 50, up to 50 Hz, 300M-parameter expert on a 3.3B total · GR00T N1: A^τ = τA + (1−τ)ε, forward Euler, K = 4, H = 16, 63.9 ms on an L40 in bf16, 2.2B parameters. The GR00T paper prints the target as ε − A; its update rule (A ← A + V/K from noise at τ = 0) and its released code (`velocity = actions - noise`, `actions = actions + dt * pred_velocity` in `flow_matching_action_head.py`, n1-release) use A − ε, the same as π0 | ✓ |
+| F6 | **Same fog, same pin.** With the exact field, DDIM at η = 0 and flow matching's Euler integrate the same path in different coordinates (x_flow = x_DDIM ÷ (√ᾱ + √(1−ᾱ))) | K = 10: **599 of 600** fog points end on the same side both ways, largest gap between a point's two pins 0.094 · K = 50: **600 of 600**, gap 0.020 · DDIM's trails redrawn in flow's coordinates score 0.560 (K = 10) / 0.555 (K = 50) against flow's own 0.545 / 0.551. Found by the second adversarial review; the page's earlier "DDIM's paths are straighter, because the fork bends the flow field" was a coordinate artifact and was replaced | ✓ |
 
 ## C. It teaches
 
@@ -63,7 +64,8 @@ Numeric checks are asserted against `window.FR` (the exact math) and `window.FRS
 - C6 The honesty note is on the page and in the README, and names the timestep spacing correctly ("trailing").
 - C7 Review board: three cases, each with a fleet re-drive scored on the behaviour *and* a named cause; known-good fixes pass, known-bad fixes fail for the stated reason (B17–B19). A star, once earned, is kept.
 - C8 Field test: nine questions answered by operating the widgets, graded automatically with tolerances (9/9 on the right answers; seven or more earns the check). Every question states the settings it needs.
-- C11 The map canvases are drawn in the scenes' language: cobbled paving, storefronts down both sides, a tree and a bench, the depot and the bakery, the cart with its striped awning and sign, the courier with its crate and antenna, and fog banks whose opacity follows √(1−ᾱ) on steps 1–2 and the pass progress on steps 3 and 7.
+- C11 The map canvases are drawn in the scenes' language: cobbled paving, storefronts down both sides, a tree and a bench, the depot and the bakery, the cart with its striped awning and sign, the courier with its crate and antenna, and fog banks whose opacity follows √(1−ᾱ) on step 1 (half of it on step 2, so the guesses stay readable), the sampler's actual √(1−ᾱ) at each pass on step 3 and on step 7's DDIM map, and 1 − t on step 7's flow map.
+- C12 A second fresh-context review of step 7 confirmed the flow-matching math (posterior, velocity, Euler, straightness) and the paper numbers, and found the step's original conclusion wrong (F6). Fixed: the s7c answer key, the say-it line, the README and this file.
 - C9 The fog-lift and drive animations are time-based; under `prefers-reduced-motion` or `?instant=1` they jump straight to the end, and the buttons re-enable.
 - C10 Every step but the last ends with a "Next: …" button.
 

diff --git a/PRODUCT.md b/PRODUCT.md
@@ -22,7 +22,7 @@ The interactive diffusion explainers are about images (Diffusion Explainer for S
 
 ## Operating context
 
-Used at a laptop in study sessions alongside the course's Unit 1 notebooks, and on a phone when shared. Steps are done in order (0–6, review board, field test), but people also jump between them. Progress persists in localStorage. Nothing computes until a button is pressed; nothing runs in the background.
+Used at a laptop in study sessions alongside the course's Unit 1 notebooks, and on a phone when shared. Steps are done in order (0–7, review board, field test), but people also jump between them. Progress persists in localStorage. Nothing computes until a button is pressed; nothing runs in the background.
 
 ## Constraints
 
